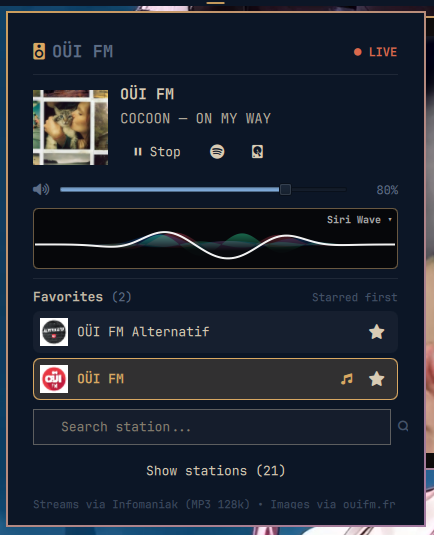
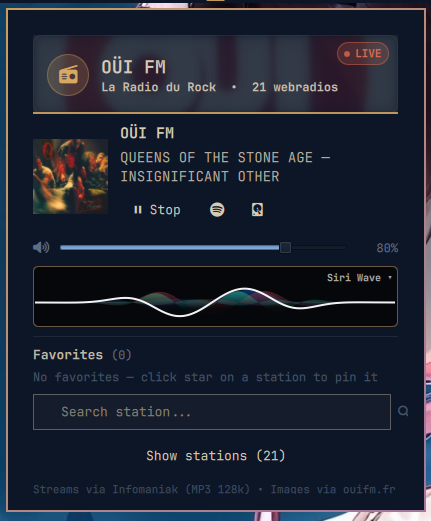
feat: hero header + LIVE top-right + subtitle visible

diff --git a/OuifmContent.qml b/OuifmContent.qml
@@ -6,6 +6,7 @@ import Quickshell
 import Quickshell.Io
 import qs.Commons
 import qs.Ui
+import QtQuick.Effects
 import "visualizers/siriwave.js" as VisSiri
 import "visualizers/sine.js" as VisSine
 import "visualizers/plasma.js" as VisPlasma
@@ -100,38 +101,137 @@ ColumnLayout {
 
     spacing: Style.space(8)
 
-    // ── Title ──
-    RowLayout {
+    // ── Hero header (test local, différenciant) ──
+    Rectangle {
         Layout.fillWidth: true
-        spacing: Style.space(6)
-        Label {
-            textFormat: Text.PlainText
-            text: ""
-            font.family: "JetBrainsMono Nerd Font"
-            font.pixelSize: Style.font.title + 4
+        implicitHeight: Style.space(68)
+        radius: Style.space(8)
+        clip: true
+        color: Color.background
+        border.color: Qt.rgba(cAccent.r, cAccent.g, cAccent.b, 0.22)
+        border.width: 1
+
+        // Blurred altCover background
+        Image {
+            id: heroBg
+            anchors.fill: parent
+            source: service ? (service.currentAltCover || service.currentImage || "") : ""
+            fillMode: Image.PreserveAspectCrop
+            asynchronous: true
+            cache: true
+            opacity: 0.38
+            layer.enabled: true
+            layer.effect: MultiEffect {
+                blurEnabled: true
+                blur: 0.85
+                blurMax: 32
+                autoPaddingEnabled: true
+            }
+        }
+        Rectangle {
+            anchors.fill: parent
+            color: Util.alpha(Color.background, 0.58)
+        }
+        // Accent bottom line
+        Rectangle {
+            anchors.bottom: parent.bottom
+            anchors.left: parent.left
+            anchors.right: parent.right
+            height: 2
             color: cAccent
+            opacity: 0.85
         }
-        Label {
-            textFormat: Text.PlainText
-            text: "OÜI FM"
-            font.family: fontFam
-            font.pixelSize: Style.font.title + 1
-            font.bold: true
-            color: cMuted
-            Layout.fillWidth: true
+
+        RowLayout {
+            anchors.fill: parent
+            anchors.leftMargin: Style.space(12)
+            anchors.rightMargin: Style.space(52)
+            anchors.topMargin: Style.space(8)
+            anchors.bottomMargin: Style.space(8)
+            spacing: Style.space(10)
+
+            // Glyph in circle
+            Rectangle {
+                Layout.preferredWidth: Style.space(36)
+                Layout.preferredHeight: Style.space(36)
+                radius: Style.space(18)
+                color: Util.alpha(cAccent, 0.18)
+                border.color: Util.alpha(cAccent, 0.45)
+                border.width: 1
+                Label {
+                    anchors.centerIn: parent
+                    textFormat: Text.PlainText
+                    text: ""
+                    font.family: "JetBrainsMono Nerd Font"
+                    font.pixelSize: 20
+                    color: cAccent
+                }
+            }
+
+            ColumnLayout {
+                Layout.fillWidth: true
+                spacing: 0
+                Label {
+                    textFormat: Text.PlainText
+                    text: "OÜI FM"
+                    font.family: fontFam
+                    font.pixelSize: Style.font.title + 2
+                    font.bold: true
+                    color: fg
+                    elide: Text.ElideRight
+                }
+                Label {
+                    textFormat: Text.PlainText
+                    text: "La Radio du Rock  •  21 webradios"
+                    font.family: fontFam
+                    font.pixelSize: Style.font.caption
+                    font.bold: true
+                    color: Util.alpha(fg, 0.92)
+                    elide: Text.ElideRight
+                }
+            }
         }
-        Label {
-            textFormat: Text.PlainText
+
+        // LIVE pill — top-right corner, inset
+        Rectangle {
             visible: service && service.isPlaying
-            text: "● LIVE"
-            font.family: fontFam
-            font.pixelSize: Style.font.caption
-            font.bold: true
-            color: Color.urgent
+            anchors.top: parent.top
+            anchors.right: parent.right
+            anchors.topMargin: Style.space(6)
+            anchors.rightMargin: Style.space(8)
+            implicitWidth: liveRow.implicitWidth + Style.space(12)
+            implicitHeight: Style.space(20)
+            radius: Style.space(10)
+            color: Util.alpha(Color.urgent, 0.18)
+            border.color: Util.alpha(Color.urgent, 0.55)
+            border.width: 1
+            RowLayout {
+                id: liveRow
+                anchors.centerIn: parent
+                spacing: Style.space(4)
+                Rectangle {
+                    Layout.preferredWidth: 6
+                    Layout.preferredHeight: 6
+                    radius: 3
+                    color: Color.urgent
+                    SequentialAnimation on opacity {
+                        loops: Animation.Infinite
+                        running: service && service.isPlaying
+                        NumberAnimation { from: 1.0; to: 0.35; duration: 700; easing.type: Easing.InOutQuad }
+                        NumberAnimation { from: 0.35; to: 1.0; duration: 700; easing.type: Easing.InOutQuad }
+                    }
+                }
+                Label {
+                    textFormat: Text.PlainText
+                    text: "LIVE"
+                    font.family: fontFam
+                    font.pixelSize: Style.font.caption - 1
+                    font.bold: true
+                    color: Color.urgent
+                }
+            }
         }
     }
-
-    Rectangle { Layout.fillWidth: true; implicitHeight: 1; color: Qt.rgba(1,1,1,0.08) }
 
     // ── Now playing card ──
     RowLayout {
